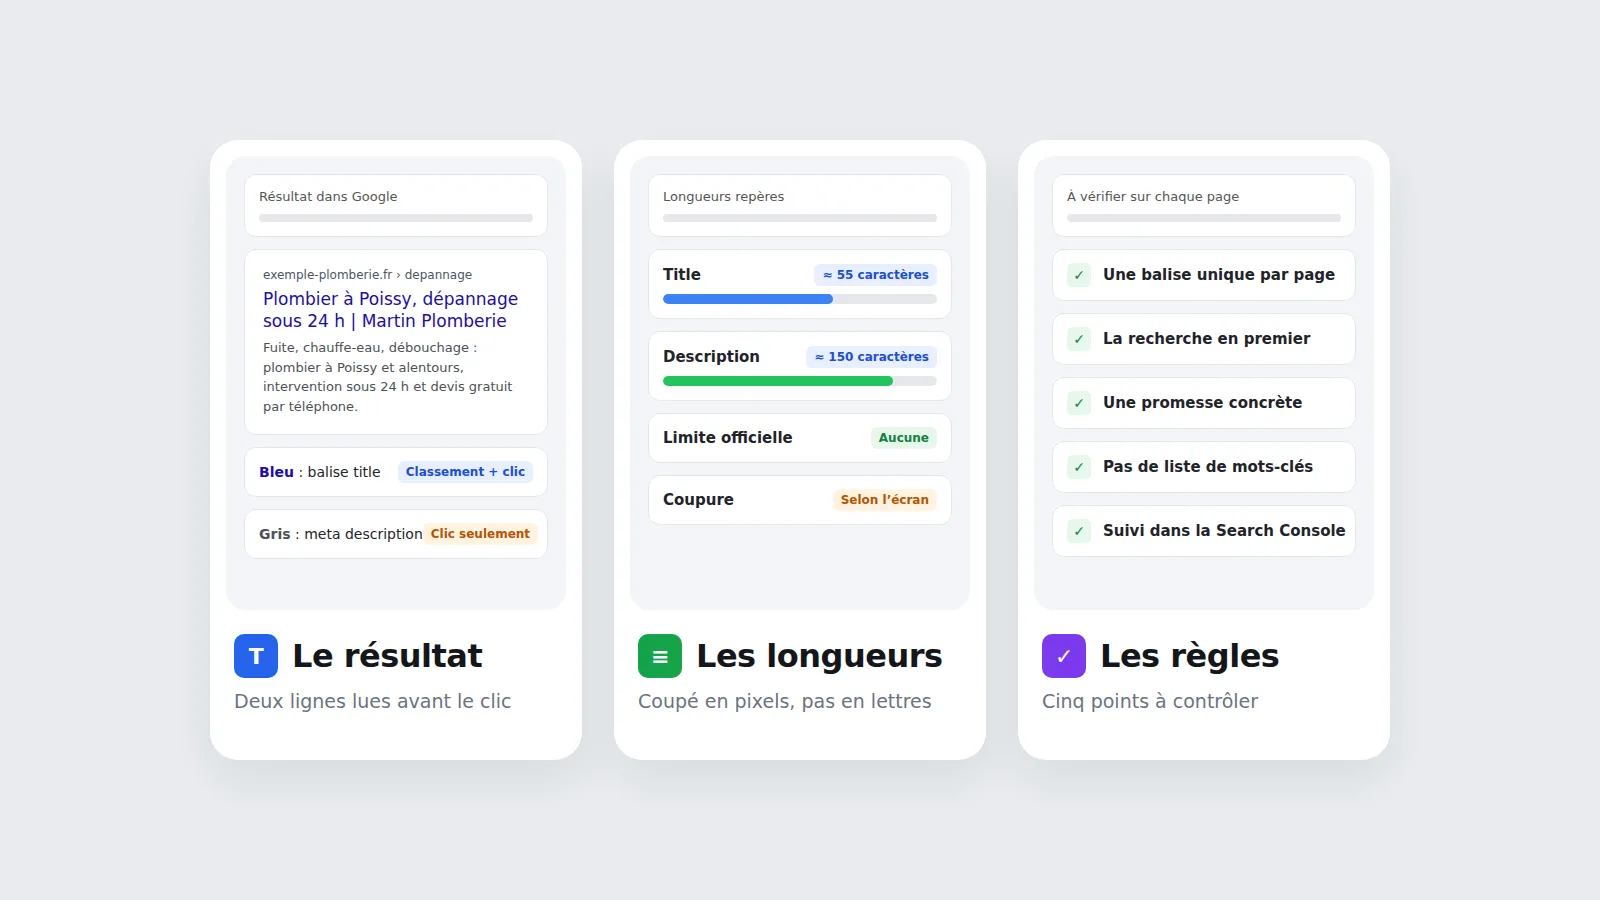
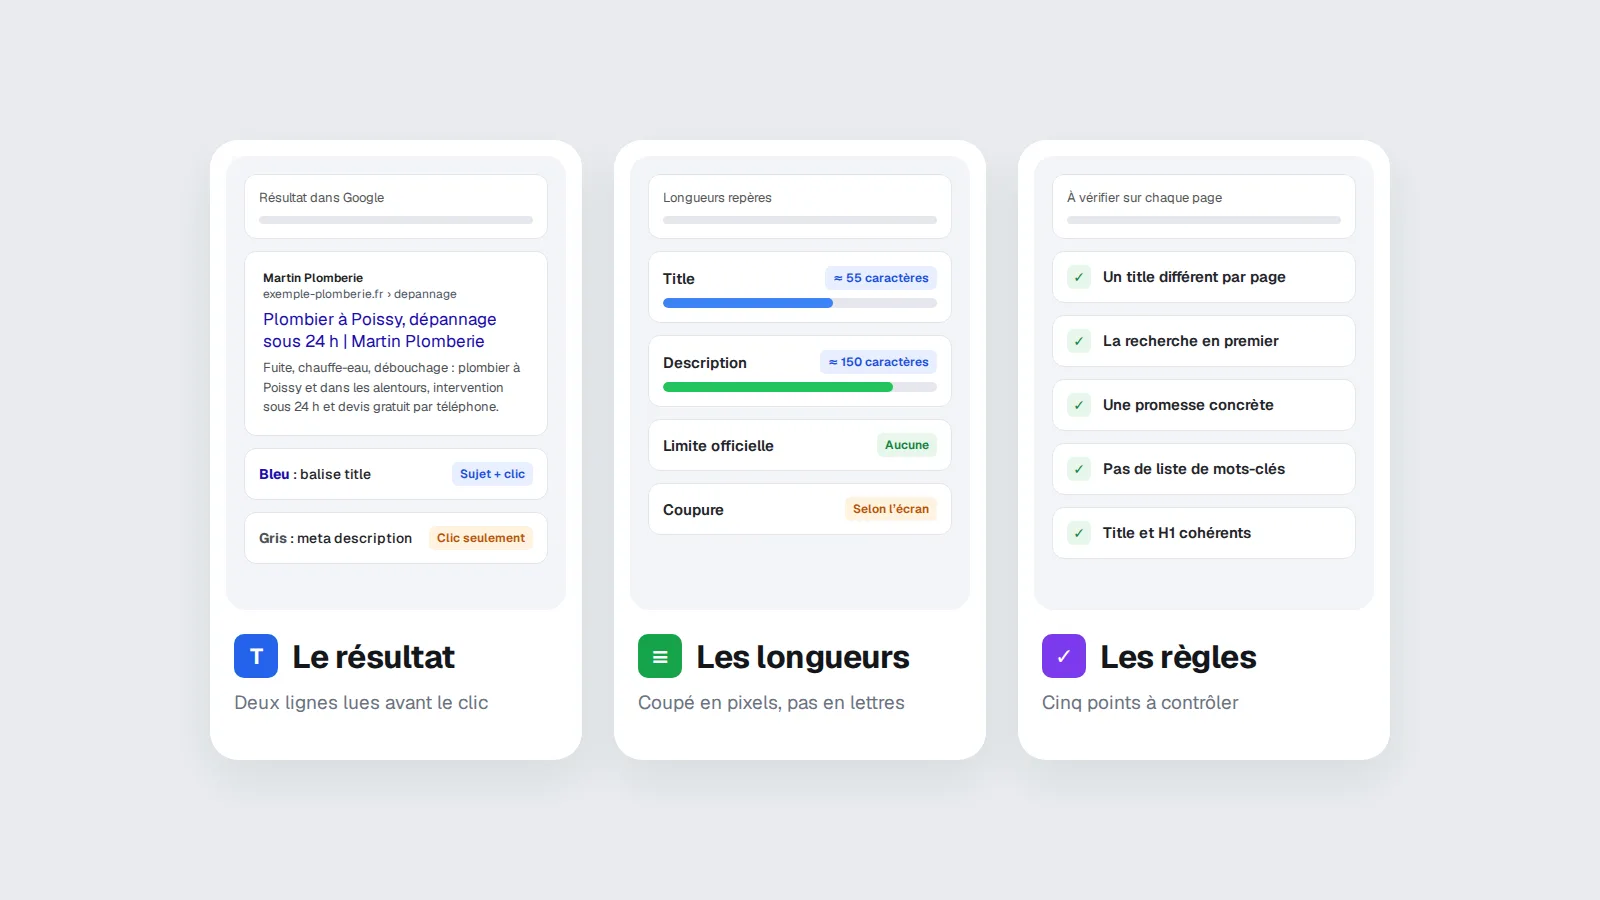
Article title/meta : corrections de la relecture Opus

diff --git a/docs/covers/balise-title-meta-description.html b/docs/covers/balise-title-meta-description.html
@@ -1,0 +1,265 @@
+<!doctype html>
+<html lang="fr">
+  <head>
+    <meta charset="utf-8" />
+    <style>
+      @font-face {
+        font-family: Geist;
+        src: url("../../node_modules/@fontsource-variable/geist/files/geist-latin-wght-normal.woff2")
+          format("woff2");
+        font-weight: 100 900;
+      }
+      * {
+        box-sizing: border-box;
+        margin: 0;
+      }
+      body {
+        width: 1600px;
+        height: 900px;
+        background: #e9ecf0;
+        font-family: Geist, Inter, system-ui, sans-serif;
+        -webkit-font-smoothing: antialiased;
+        display: flex;
+        align-items: center;
+        justify-content: center;
+        gap: 32px;
+      }
+      .card {
+        width: 372px;
+        height: 620px;
+        background: #fff;
+        border-radius: 28px;
+        box-shadow: 0 20px 50px rgba(20, 30, 50, 0.08);
+        padding: 16px;
+        display: flex;
+        flex-direction: column;
+      }
+      .inner {
+        background: #f3f4f7;
+        border-radius: 20px;
+        padding: 18px;
+        height: 454px;
+        display: flex;
+        flex-direction: column;
+        gap: 12px;
+      }
+      .box {
+        background: #fff;
+        border: 1px solid #e3e6ec;
+        border-radius: 12px;
+        padding: 14px;
+      }
+      .lbl {
+        font-size: 13px;
+        color: #555;
+      }
+      .bar {
+        height: 8px;
+        background: #e6e8ee;
+        border-radius: 4px;
+        margin-top: 10px;
+      }
+      .foot {
+        padding: 24px 8px 0;
+      }
+      .h {
+        display: flex;
+        align-items: center;
+        gap: 14px;
+        font-size: 32px;
+        font-weight: 700;
+        color: #14161b;
+        letter-spacing: -0.5px;
+      }
+      .ic {
+        width: 44px;
+        height: 44px;
+        border-radius: 10px;
+        display: flex;
+        align-items: center;
+        justify-content: center;
+        color: #fff;
+        font-size: 22px;
+        font-weight: 700;
+      }
+      .sub {
+        font-size: 19px;
+        color: #6b7280;
+        margin-top: 12px;
+      }
+      .url {
+        font-size: 12px;
+        color: #4b5563;
+      }
+      .t {
+        font-size: 17px;
+        color: #1a0dab;
+        margin: 6px 0 6px;
+        line-height: 1.3;
+      }
+      .d {
+        font-size: 13px;
+        color: #4d5156;
+        line-height: 1.5;
+      }
+      .row {
+        white-space: nowrap;
+        display: flex;
+        align-items: center;
+        justify-content: space-between;
+        background: #fff;
+        border: 1px solid #e3e6ec;
+        border-radius: 12px;
+        padding: 13px 14px;
+        font-size: 15px;
+        font-weight: 600;
+        color: #1f2329;
+      }
+      .tag {
+        font-size: 12px;
+        font-weight: 600;
+        padding: 4px 8px;
+        border-radius: 6px;
+      }
+      .g {
+        background: #e7f7ec;
+        color: #15803d;
+      }
+      .b {
+        background: #e8efff;
+        color: #1d4ed8;
+      }
+      .o {
+        background: #fff3e0;
+        color: #b45309;
+      }
+      .ck {
+        display: inline-flex;
+        width: 24px;
+        height: 24px;
+        border-radius: 6px;
+        background: #e7f7ec;
+        color: #15803d;
+        align-items: center;
+        justify-content: center;
+        font-size: 14px;
+        margin-right: 12px;
+      }
+      .meter {
+        height: 10px;
+        border-radius: 5px;
+        background: #e6e8ee;
+        margin-top: 8px;
+        overflow: hidden;
+      }
+      .meter i {
+        display: block;
+        height: 100%;
+        background: #3b82f6;
+        border-radius: 5px;
+      }
+    </style>
+  </head>
+  <body>
+    <div class="card">
+      <div class="inner">
+        <div class="box">
+          <div class="lbl">Résultat dans Google</div>
+          <div class="bar"></div>
+        </div>
+        <div class="box" style="padding: 18px">
+          <div class="url">
+            <b style="color: #202124; font-weight: 600">Martin Plomberie</b
+            ><br />exemple-plomberie.fr › depannage
+          </div>
+          <div class="t">
+            Plombier à Poissy, dépannage sous 24 h | Martin Plomberie
+          </div>
+          <div class="d">
+            Fuite, chauffe-eau, débouchage : plombier à Poissy et dans les
+            alentours, intervention sous 24 h et devis gratuit par téléphone.
+          </div>
+        </div>
+        <div class="row" style="font-weight: 500; font-size: 14px">
+          <span><b style="color: #1a0dab">Bleu</b> : balise title</span
+          ><span class="tag b">Sujet + clic</span>
+        </div>
+        <div class="row" style="font-weight: 500; font-size: 14px">
+          <span><b style="color: #4d5156">Gris</b> : meta description</span
+          ><span class="tag o">Clic seulement</span>
+        </div>
+      </div>
+      <div class="foot">
+        <div class="h">
+          <span class="ic" style="background: #2563eb">T</span>Le résultat
+        </div>
+        <div class="sub">Deux lignes lues avant le clic</div>
+      </div>
+    </div>
+
+    <div class="card">
+      <div class="inner">
+        <div class="box">
+          <div class="lbl">Longueurs repères</div>
+          <div class="bar"></div>
+        </div>
+        <div class="box">
+          <div class="row" style="border: 0; padding: 0">
+            <span>Title</span><span class="tag b">≈ 55 caractères</span>
+          </div>
+          <div class="meter"><i style="width: 62%"></i></div>
+        </div>
+        <div class="box">
+          <div class="row" style="border: 0; padding: 0">
+            <span>Description</span><span class="tag b">≈ 150 caractères</span>
+          </div>
+          <div class="meter">
+            <i style="width: 84%; background: #22c55e"></i>
+          </div>
+        </div>
+        <div class="row">
+          <span>Limite officielle</span><span class="tag g">Aucune</span>
+        </div>
+        <div class="row">
+          <span>Coupure</span><span class="tag o">Selon l’écran</span>
+        </div>
+      </div>
+      <div class="foot">
+        <div class="h">
+          <span class="ic" style="background: #16a34a">≡</span>Les longueurs
+        </div>
+        <div class="sub">Coupé en pixels, pas en lettres</div>
+      </div>
+    </div>
+
+    <div class="card">
+      <div class="inner">
+        <div class="box">
+          <div class="lbl">À vérifier sur chaque page</div>
+          <div class="bar"></div>
+        </div>
+        <div class="row">
+          <span><span class="ck">✓</span>Un title différent par page</span>
+        </div>
+        <div class="row">
+          <span><span class="ck">✓</span>La recherche en premier</span>
+        </div>
+        <div class="row">
+          <span><span class="ck">✓</span>Une promesse concrète</span>
+        </div>
+        <div class="row">
+          <span><span class="ck">✓</span>Pas de liste de mots-clés</span>
+        </div>
+        <div class="row">
+          <span><span class="ck">✓</span>Title et H1 cohérents</span>
+        </div>
+      </div>
+      <div class="foot">
+        <div class="h">
+          <span class="ic" style="background: #7c3aed">✓</span>Les règles
+        </div>
+        <div class="sub">Cinq points à contrôler</div>
+      </div>
+    </div>
+  </body>
+</html>
